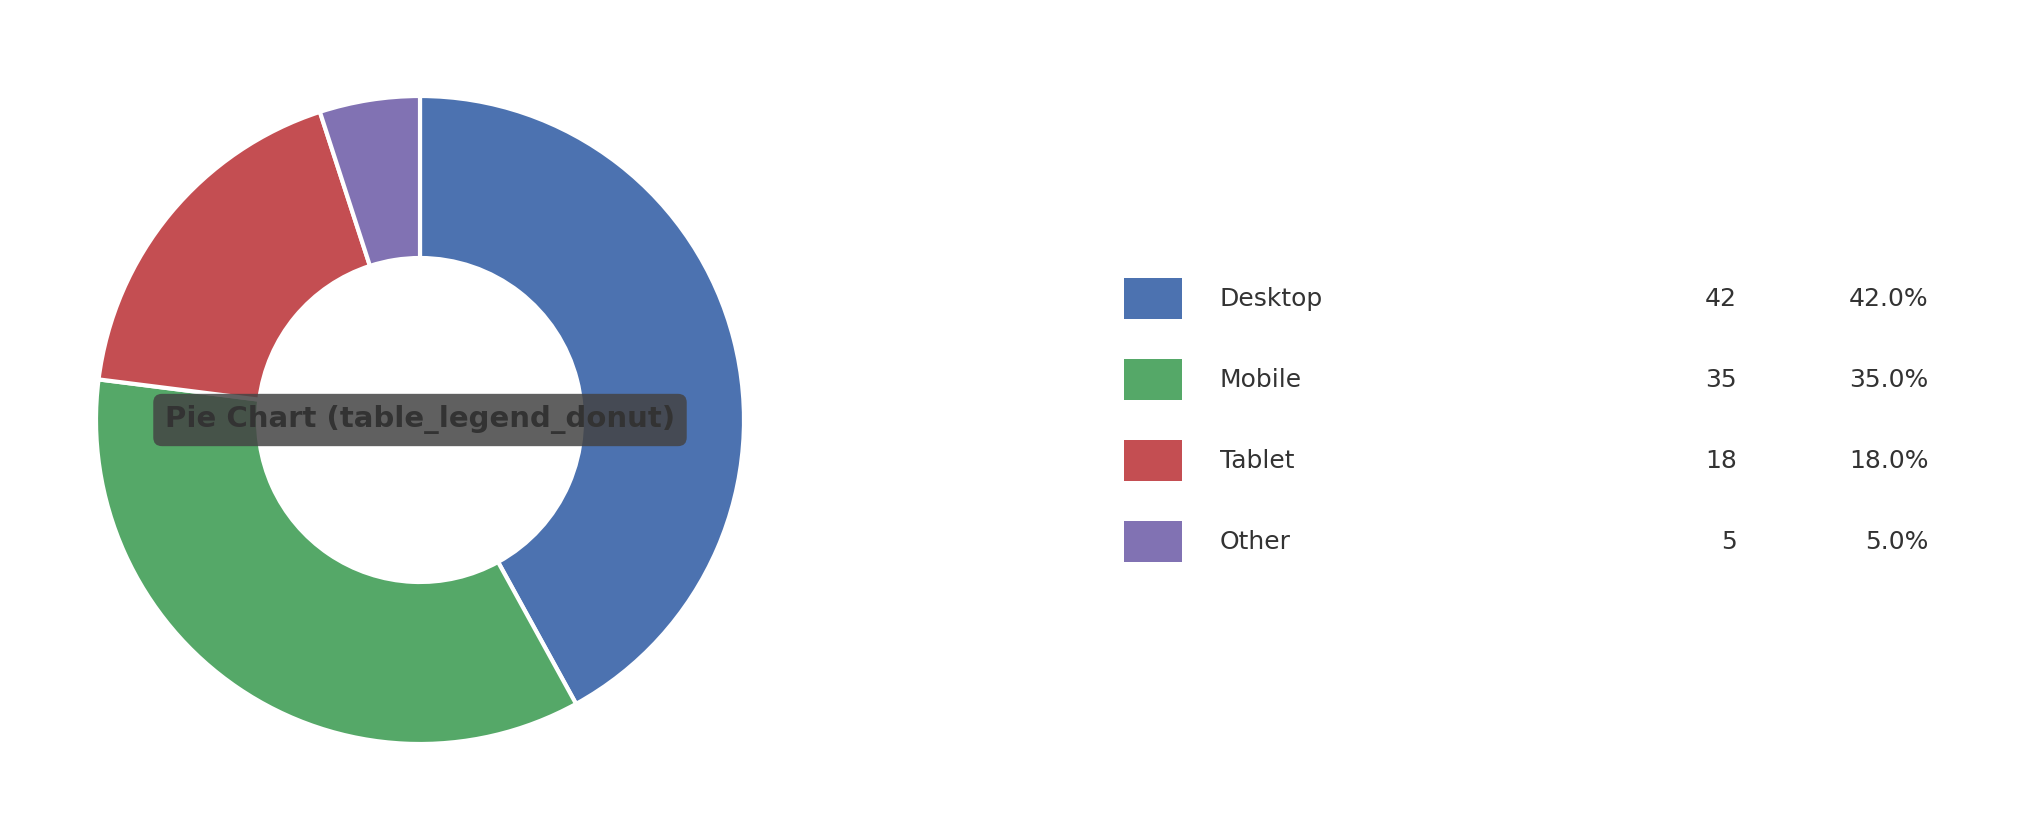
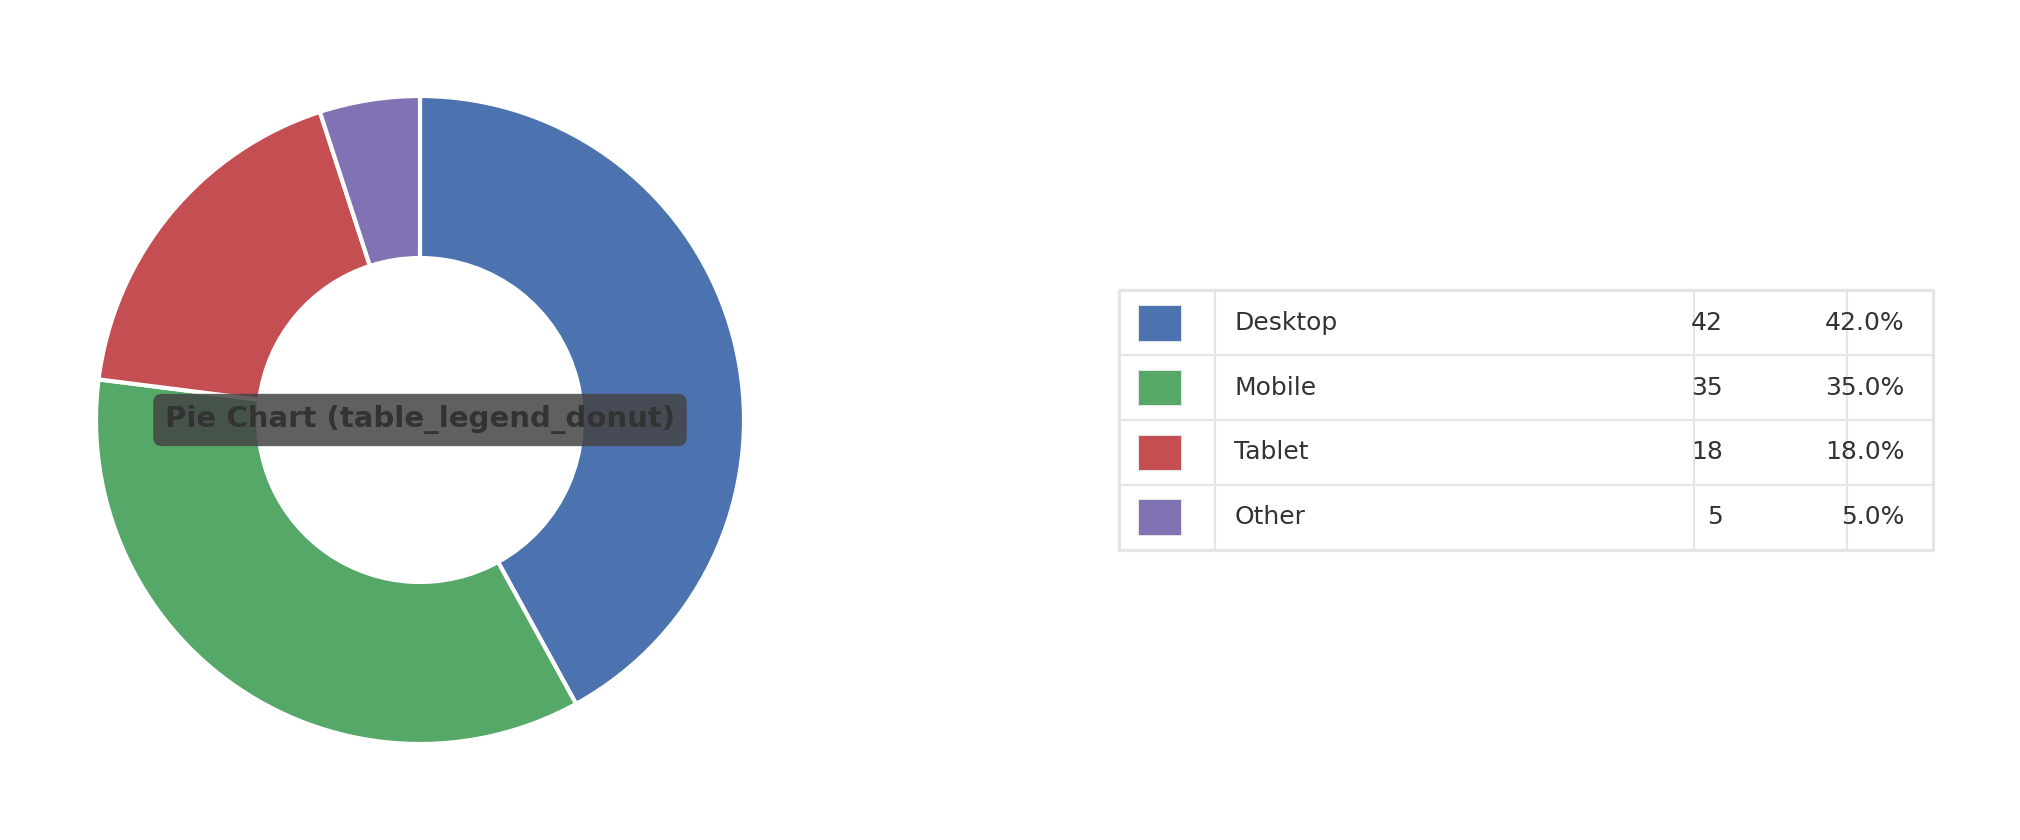
donot chart enhanced

diff --git a/src/charter/charts/pie.py b/src/charter/charts/pie.py
@@ -607,8 +607,8 @@ class PieChart(BaseChart):
         position: str = "right",
     ) -> None:
         """
-        Render the table legend with color indicators, labels, values, and percentages.
-        Center-aligned both vertically and horizontally.
+        Render the table legend with visible borders, color indicators, labels, values, and percentages.
+        Compact and center-aligned both vertically and horizontally.
         
         Args:
             ax: matplotlib Axes for the legend
@@ -632,31 +632,74 @@ class PieChart(BaseChart):
             self._render_legend_table_horizontal(ax, labels, values, colors, total)
             return
         
-        # Vertical layout (right or left) - CENTER ALIGNED
-        # Calculate row dimensions
-        row_height = min(0.1, 0.7 / max(n_rows, 1))
+        # Compact table dimensions
+        row_height = min(0.08, 0.65 / max(n_rows, 1))
         
-        # Calculate total table height for vertical centering
+        # Calculate total table dimensions
         header_offset = 1 if show_header else 0
         total_rows = n_rows + header_offset
         total_table_height = total_rows * row_height
         
-        # Center vertically: start_y is the top of the first row
-        start_y = 0.5 + (total_table_height / 2) - (row_height / 2)
+        # Table boundaries (centered)
+        table_width = 0.85
+        table_left = (1.0 - table_width) / 2
+        table_right = table_left + table_width
+        table_top = 0.5 + (total_table_height / 2)
+        table_bottom = 0.5 - (total_table_height / 2)
         
-        # Define column positions (centered horizontally with padding)
-        # Table content spans from 0.08 to 0.92 (84% width, centered)
-        table_left = 0.08
-        col_color = table_left
-        col_label = table_left + 0.1
-        col_value = 0.72 if show_percent else 0.88
-        col_percent = 0.92
+        # Border color (use theme grid color or a subtle gray)
+        border_color = self.theme.grid_color if hasattr(self.theme, 'grid_color') else "#555555"
+        border_width = 1.0
+        
+        # Column positions within table
+        col_color_x = table_left + 0.02
+        col_label_x = table_left + 0.12
+        col_value_x = table_right - 0.22 if show_percent else table_right - 0.05
+        col_percent_x = table_right - 0.03
+        
+        # Draw outer table border
+        outer_border = Rectangle(
+            (table_left, table_bottom),
+            table_width,
+            total_table_height,
+            fill=False,
+            edgecolor=border_color,
+            linewidth=border_width * 1.5,
+        )
+        ax.add_patch(outer_border)
+        
+        # Draw horizontal lines (row separators)
+        for i in range(total_rows + 1):
+            y_line = table_top - (i * row_height)
+            ax.plot(
+                [table_left, table_right],
+                [y_line, y_line],
+                color=border_color,
+                linewidth=border_width,
+                solid_capstyle="butt",
+            )
+        
+        # Draw vertical lines (column separators)
+        # Color column separator
+        col_sep_1 = table_left + 0.10
+        ax.plot([col_sep_1, col_sep_1], [table_bottom, table_top], color=border_color, linewidth=border_width)
+        
+        # Value column separator (if showing value)
+        if show_value:
+            col_sep_2 = col_value_x - 0.03
+            ax.plot([col_sep_2, col_sep_2], [table_bottom, table_top], color=border_color, linewidth=border_width)
+        
+        # Percent column separator (if showing both value and percent)
+        if show_value and show_percent:
+            col_sep_3 = col_percent_x - 0.06
+            ax.plot([col_sep_3, col_sep_3], [table_bottom, table_top], color=border_color, linewidth=border_width)
         
         # Add headers if enabled
+        row_idx = 0
         if show_header:
-            header_y = start_y + row_height
+            header_y = table_top - (row_height / 2)
             ax.text(
-                col_label, header_y, "Category",
+                col_label_x, header_y, "Category",
                 fontsize=self.theme.tick_font_size,
                 fontweight="bold",
                 color=self.theme.text_color,
@@ -665,7 +708,7 @@ class PieChart(BaseChart):
             )
             if show_value:
                 ax.text(
-                    col_value, header_y, "Value",
+                    col_value_x, header_y, "Value",
                     fontsize=self.theme.tick_font_size,
                     fontweight="bold",
                     color=self.theme.text_color,
@@ -675,7 +718,7 @@ class PieChart(BaseChart):
                 )
             if show_percent:
                 ax.text(
-                    col_percent, header_y, "%",
+                    col_percent_x, header_y, "%",
                     fontsize=self.theme.tick_font_size,
                     fontweight="bold",
                     color=self.theme.text_color,
@@ -683,28 +726,28 @@ class PieChart(BaseChart):
                     ha="right",
                     va="center",
                 )
-            # Move data rows down after header
-            start_y = start_y - row_height * 0.3
+            row_idx = 1
         
-        # Render each row (centered vertically)
+        # Render each data row
         for i, (label, value, color) in enumerate(zip(labels, values, colors)):
-            y = start_y - (i * row_height)
+            y = table_top - ((row_idx + i) * row_height) - (row_height / 2)
             pct = (value / total) * 100 if total > 0 else 0
             
-            # Color indicator (small square, centered vertically on the row)
-            rect_size = row_height * 0.5
+            # Color indicator (small square)
+            rect_size = row_height * 0.55
             rect = Rectangle(
-                (col_color, y - rect_size / 2),
-                rect_size * 1.2,
+                (col_color_x, y - rect_size / 2),
+                rect_size,
                 rect_size,
                 facecolor=color,
-                edgecolor="none",
+                edgecolor=border_color,
+                linewidth=0.5,
             )
             ax.add_patch(rect)
             
             # Label text
             ax.text(
-                col_label, y,
+                col_label_x, y,
                 label,
                 fontsize=self.theme.label_font_size,
                 color=self.theme.text_color,
@@ -715,7 +758,7 @@ class PieChart(BaseChart):
             # Value (right-aligned)
             if show_value:
                 ax.text(
-                    col_value, y,
+                    col_value_x, y,
                     f"{value:,.0f}" if isinstance(value, (int, float)) else str(value),
                     fontsize=self.theme.label_font_size,
                     color=self.theme.text_color,
@@ -727,7 +770,7 @@ class PieChart(BaseChart):
             # Percentage (right-aligned)
             if show_percent:
                 ax.text(
-                    col_percent, y,
+                    col_percent_x, y,
                     f"{pct:.1f}%",
                     fontsize=self.theme.label_font_size,
                     color=self.theme.text_color,

diff --git a/README.md b/README.md
@@ -198,7 +198,30 @@ await generate_chart(
 
 #### Table Legend Style (Side Legend with Values)
 
-Displays the pie/donut chart on the left with a centered table legend on the right showing color indicators, labels, values, and percentages.
+Displays the pie/donut chart on the left with a compact, bordered table legend on the right showing color indicators, labels, values, and percentages.
+
+**Visual Layout:**
+
+```
++---------------------------+-------------------------------------------+
+|                           | +-------+----------+-------+---------+   |
+|                           | | [*]   | Desktop  |    42 |  42.0%  |   |
+|       PIE / DONUT         | |-------|----------|-------|---------|   |
+|                           | | [*]   | Mobile   |    35 |  35.0%  |   |
+|      (center title        | |-------|----------|-------|---------|   |
+|       for donut)          | | [*]   | Tablet   |    18 |  18.0%  |   |
+|                           | |-------|----------|-------|---------|   |
+|                           | | [*]   | Other    |     5 |   5.0%  |   |
+|                           | +-------+----------+-------+---------+   |
++---------------------------+-------------------------------------------+
+```
+
+**Features:**
+- Visible outer border and row/column separators
+- Compact, centered table layout
+- Color indicator squares with borders
+- Configurable columns (value, percentage)
+- Center title with background box for donut variant
 
 ```python
 # Regular pie with table legend
@@ -224,10 +247,14 @@ await generate_chart(
 )
 ```
 
-The table legend position is configurable via style options:
-- `table_legend_position`: `"right"` (default), `"left"`, or `"bottom"`
-- `table_legend_show_value`: Show/hide value column
-- `table_legend_show_percent`: Show/hide percentage column
+**Configuration Options:**
+
+| Option | Values | Description |
+|--------|--------|-------------|
+| `table_legend_position` | `"right"`, `"left"`, `"bottom"` | Position of table legend |
+| `table_legend_show_value` | `True`, `False` | Show/hide value column |
+| `table_legend_show_percent` | `True`, `False` | Show/hide percentage column |
+| `table_legend_header` | `True`, `False` | Show/hide column headers |
 
 #### Pie Styles
 
